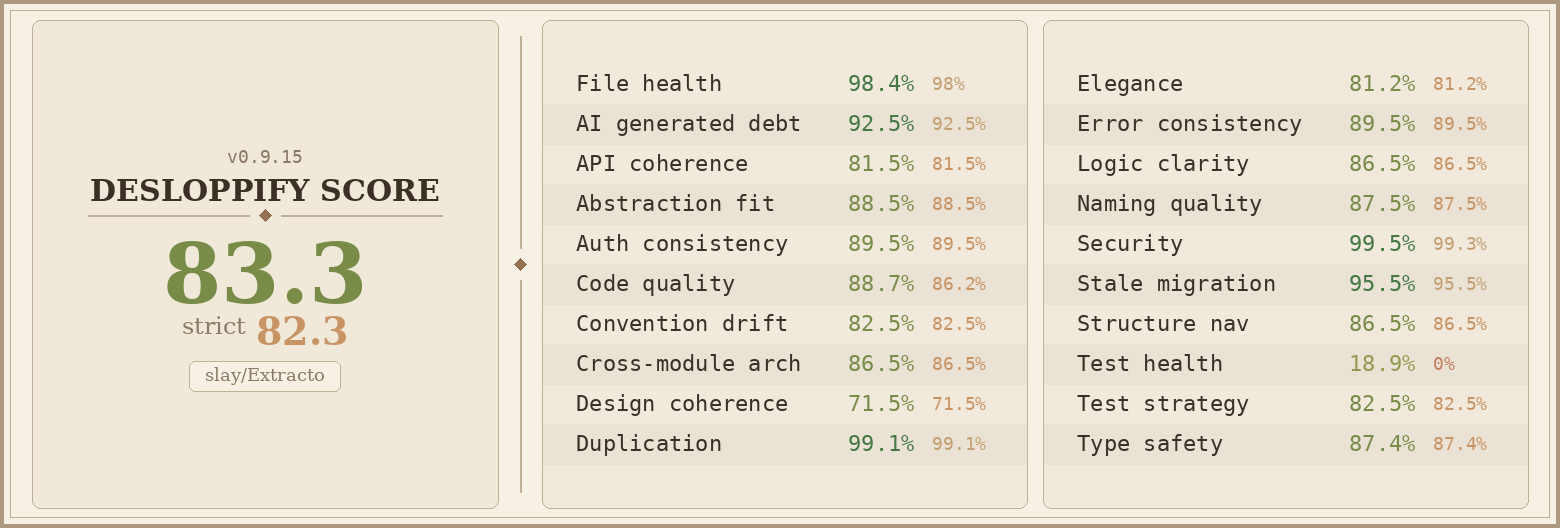
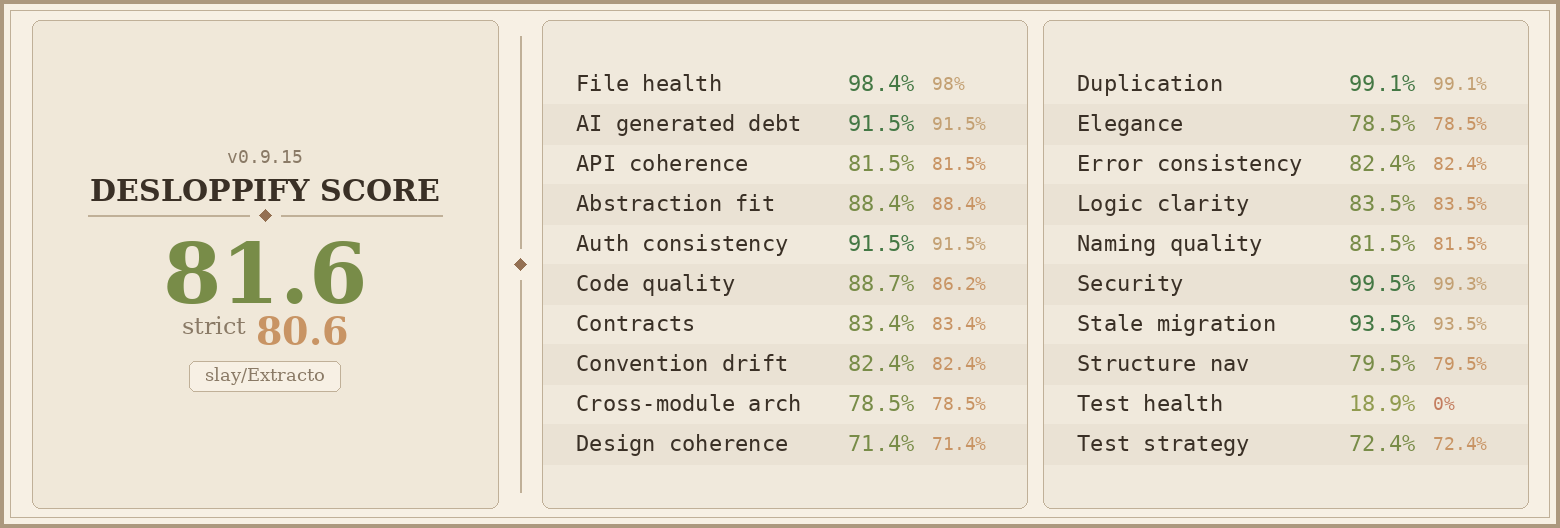
Cover v1/search, v1/webhooks, and collectDroppedFiles
Tests grew from 1117 to 1132 (+15):

- /api/v1/search GET: missing/short/oversize q -> 400, scoped findMany
  call shape, snippet inclusion, limit clamping at the new 100 ceiling.
- /api/v1/webhooks GET + POST: list scoping, missing url -> 400,
  url-safety policy rejection -> 400 with reason, per-user cap -> 409,
  successful create -> 201 with the signing secret returned exactly once.
- collectDroppedFiles: empty/no-webkitGetAsEntry path, single file,
  recursive directory walk, .file()-rejecting entries swallowed,
  non-file/non-directory entries skipped.

Refresh scorecard.png to reflect the post-fix dimension scores.

diff --git a/src/__tests__/app/api/v1/webhooks.test.ts b/src/__tests__/app/api/v1/webhooks.test.ts
@@ -1,0 +1,117 @@
+import { afterEach, beforeEach, describe, expect, it, vi } from "vitest";
+import type { NextRequest } from "next/server";
+
+vi.mock("@/lib/auth/request", () => ({
+  withAuth: <P,>(_scope: string, handler: (req: NextRequest, ctx: { auth: unknown; params: Promise<P> }) => Promise<Response>) =>
+    async (req: NextRequest, ctx: { params?: Promise<P> } = {}) => {
+      try {
+        return await handler(req, { auth: { method: "session", userId: "u1", scopes: ["*"] }, params: ctx.params ?? Promise.resolve({} as P) });
+      } catch (error) {
+        const status = error instanceof Error && "status" in error ? ((error as { status?: number }).status ?? 500) : 500;
+        return new Response(JSON.stringify({ error: error instanceof Error ? error.message : "internal" }), { status, headers: { "Content-Type": "application/json" } });
+      }
+    },
+  withMutationAuth: <P,>(_scope: string, handler: (req: NextRequest, ctx: { auth: unknown; params: Promise<P> }) => Promise<Response>) =>
+    async (req: NextRequest, ctx: { params?: Promise<P> } = {}) => {
+      try {
+        return await handler(req, { auth: { method: "session", userId: "u1", scopes: ["*"] }, params: ctx.params ?? Promise.resolve({} as P) });
+      } catch (error) {
+        const status = error instanceof Error && "status" in error ? ((error as { status?: number }).status ?? 500) : 500;
+        return new Response(JSON.stringify({ error: error instanceof Error ? error.message : "internal" }), { status, headers: { "Content-Type": "application/json" } });
+      }
+    },
+}));
+
+vi.mock("@/lib/db", () => ({
+  db: {
+    webhook: {
+      findMany: vi.fn(),
+      count: vi.fn(),
+      create: vi.fn(),
+    },
+  },
+}));
+
+vi.mock("@/lib/url-safety", () => ({
+  isAllowedExternalUrl: vi.fn().mockReturnValue({ ok: true }),
+  parseAllowlist: vi.fn().mockReturnValue([]),
+}));
+
+vi.mock("@/lib/background/webhooks", async () => {
+  const actual = await vi.importActual<typeof import("@/lib/background/webhooks")>("@/lib/background/webhooks");
+  return {
+    ...actual,
+    generateWebhookSecret: () => "whsec_fixed_test_secret",
+  };
+});
+
+import { db } from "@/lib/db";
+import { isAllowedExternalUrl } from "@/lib/url-safety";
+import { GET, POST } from "@/app/api/v1/webhooks/route";
+
+const mockedFindMany = db.webhook.findMany as ReturnType<typeof vi.fn>;
+const mockedCount = db.webhook.count as ReturnType<typeof vi.fn>;
+const mockedCreate = db.webhook.create as ReturnType<typeof vi.fn>;
+const mockedSafety = isAllowedExternalUrl as ReturnType<typeof vi.fn>;
+
+function makeReq(method: "GET" | "POST" = "GET", body?: unknown): NextRequest {
+  return new Request("http://localhost/api/v1/webhooks", {
+    method,
+    headers: { "Content-Type": "application/json", origin: "http://localhost" },
+    body: body !== undefined ? JSON.stringify(body) : undefined,
+  }) as unknown as NextRequest;
+}
+
+beforeEach(() => {
+  mockedFindMany.mockReset();
+  mockedCount.mockReset().mockResolvedValue(0);
+  mockedCreate.mockReset();
+  mockedSafety.mockReset().mockReturnValue({ ok: true });
+});
+afterEach(() => vi.clearAllMocks());
+
+describe("GET /api/v1/webhooks", () => {
+  it("lists the user's webhooks with parsed events", async () => {
+    mockedFindMany.mockResolvedValueOnce([
+      { id: "w1", url: "https://example.com/h", events: '["job.completed"]', active: true, createdAt: new Date() },
+    ]);
+    const res = await GET(makeReq());
+    expect(res.status).toBe(200);
+    const body = await res.json();
+    expect(body.webhooks[0].events).toEqual(["job.completed"]);
+    expect(mockedFindMany.mock.calls[0][0].where.userId).toBe("u1");
+  });
+});
+
+describe("POST /api/v1/webhooks", () => {
+  it("returns 400 when url is missing", async () => {
+    const res = await POST(makeReq("POST", { events: ["job.completed"] }));
+    expect(res.status).toBe(400);
+  });
+
+  it("returns 400 when the URL fails the safety policy", async () => {
+    mockedSafety.mockReturnValueOnce({ ok: false, reason: "Loopback addresses are blocked" });
+    const res = await POST(makeReq("POST", { url: "http://127.0.0.1/h" }));
+    expect(res.status).toBe(400);
+    const body = await res.json();
+    expect(body.error).toMatch(/Loopback/);
+  });
+
+  it("returns 409 when the per-user webhook cap is reached", async () => {
+    mockedCount.mockResolvedValueOnce(20);
+    const res = await POST(makeReq("POST", { url: "https://example.com/h" }));
+    expect(res.status).toBe(409);
+  });
+
+  it("creates the webhook, returns 201, and surfaces the signing secret exactly once", async () => {
+    mockedCreate.mockResolvedValueOnce({
+      id: "w1", url: "https://example.com/h", events: '["job.completed","job.failed"]',
+      active: true, createdAt: new Date(),
+    });
+    const res = await POST(makeReq("POST", { url: "https://example.com/h" }));
+    expect(res.status).toBe(201);
+    const body = await res.json();
+    expect(body.webhook.secret).toBe("whsec_fixed_test_secret");
+    expect(body.warning).toContain("Store this signing secret now");
+  });
+});

diff --git a/src/__tests__/app/page-utils-collect-dropped-files.test.ts b/src/__tests__/app/page-utils-collect-dropped-files.test.ts
@@ -1,0 +1,91 @@
+import { describe, expect, it, vi } from "vitest";
+
+import { collectDroppedFiles } from "@/app/page-components/page-utils";
+
+interface MockEntry {
+  isFile?: boolean;
+  isDirectory?: boolean;
+  file?: (resolve: (file: File | null) => void, reject: () => void) => void;
+  createReader?: () => { readEntries: (resolve: (entries: MockEntry[]) => void, reject?: () => void) => void };
+}
+
+function makeFileEntry(name: string, content = ""): MockEntry {
+  return {
+    isFile: true,
+    isDirectory: false,
+    file: (resolve) => {
+      const file = new File([content], name);
+      resolve(file);
+    },
+  };
+}
+
+function makeDirEntry(children: MockEntry[]): MockEntry {
+  let served = false;
+  return {
+    isFile: false,
+    isDirectory: true,
+    createReader: () => ({
+      readEntries: (resolve) => {
+        if (served) {
+          resolve([]);
+        } else {
+          served = true;
+          resolve(children);
+        }
+      },
+    }),
+  };
+}
+
+function makeDataTransferItems(entries: MockEntry[]): DataTransferItemList {
+  const items = entries.map((entry) => ({
+    webkitGetAsEntry: () => entry as unknown as FileSystemEntry,
+  }));
+  return Object.assign(items, { length: items.length }) as unknown as DataTransferItemList;
+}
+
+describe("collectDroppedFiles", () => {
+  it("returns [] when items don't expose webkitGetAsEntry", async () => {
+    const fakeItems = Object.assign([{}], { length: 1 }) as unknown as DataTransferItemList;
+    expect(await collectDroppedFiles(fakeItems)).toEqual([]);
+  });
+
+  it("collects a single dropped file", async () => {
+    const items = makeDataTransferItems([makeFileEntry("a.png", "x")]);
+    const collected = await collectDroppedFiles(items);
+    expect(collected).toHaveLength(1);
+    expect(collected[0].name).toBe("a.png");
+  });
+
+  it("walks a directory and collects every file inside", async () => {
+    const items = makeDataTransferItems([
+      makeDirEntry([
+        makeFileEntry("first.pdf"),
+        makeDirEntry([makeFileEntry("nested.png")]),
+        makeFileEntry("second.jpg"),
+      ]),
+    ]);
+    const collected = await collectDroppedFiles(items);
+    const names = collected.map((f) => f.name).sort();
+    expect(names).toEqual(["first.pdf", "nested.png", "second.jpg"]);
+  });
+
+  it("ignores entries whose .file callback rejects", async () => {
+    const broken: MockEntry = {
+      isFile: true,
+      file: (_resolve, reject) => reject(),
+    };
+    const items = makeDataTransferItems([broken, makeFileEntry("ok.png")]);
+    const collected = await collectDroppedFiles(items);
+    expect(collected.map((f) => f.name)).toEqual(["ok.png"]);
+  });
+
+  it("ignores entries that are neither file nor directory", async () => {
+    vi.stubGlobal("File", File);
+    const weird: MockEntry = { isFile: false, isDirectory: false };
+    const items = makeDataTransferItems([weird, makeFileEntry("real.png")]);
+    const collected = await collectDroppedFiles(items);
+    expect(collected.map((f) => f.name)).toEqual(["real.png"]);
+  });
+});

diff --git a/src/__tests__/app/api/v1/search.test.ts b/src/__tests__/app/api/v1/search.test.ts
@@ -1,0 +1,67 @@
+import { afterEach, beforeEach, describe, expect, it, vi } from "vitest";
+import type { NextRequest } from "next/server";
+
+vi.mock("@/lib/auth/request", () => ({
+  withAuth: <P,>(_scope: string, handler: (req: NextRequest, ctx: { auth: unknown; params: Promise<P> }) => Promise<Response>) =>
+    async (req: NextRequest) => {
+      try {
+        return await handler(req, { auth: { method: "session", userId: "u1", scopes: ["*"] }, params: Promise.resolve({} as P) });
+      } catch (error) {
+        const status = error instanceof Error && "status" in error ? ((error as { status?: number }).status ?? 500) : 500;
+        return new Response(JSON.stringify({ error: error instanceof Error ? error.message : "internal" }), { status, headers: { "Content-Type": "application/json" } });
+      }
+    },
+}));
+
+vi.mock("@/lib/db", () => ({
+  db: { ocrJob: { findMany: vi.fn() } },
+}));
+
+import { db } from "@/lib/db";
+import { GET } from "@/app/api/v1/search/route";
+
+const mockedFindMany = db.ocrJob.findMany as ReturnType<typeof vi.fn>;
+
+function makeReq(query: string): NextRequest {
+  return new Request(`http://localhost/api/v1/search?${query}`) as unknown as NextRequest;
+}
+
+beforeEach(() => mockedFindMany.mockReset());
+afterEach(() => vi.clearAllMocks());
+
+describe("GET /api/v1/search", () => {
+  it("returns 400 when q is missing", async () => {
+    const res = await GET(makeReq(""));
+    expect(res.status).toBe(400);
+  });
+
+  it("returns 400 when q is shorter than 2 chars", async () => {
+    const res = await GET(makeReq("q=a"));
+    expect(res.status).toBe(400);
+  });
+
+  it("returns 400 when q is over 200 chars", async () => {
+    const res = await GET(makeReq(`q=${"x".repeat(201)}`));
+    expect(res.status).toBe(400);
+  });
+
+  it("returns matching jobs scoped to the current user", async () => {
+    mockedFindMany.mockResolvedValueOnce([
+      { id: "j1", fileName: "doc.pdf", status: "COMPLETED", model: "qwen", createdAt: new Date(), extractedText: "this is a test snippet" },
+    ]);
+    const res = await GET(makeReq("q=test"));
+    expect(res.status).toBe(200);
+    const body = await res.json();
+    expect(body.q).toBe("test");
+    expect(body.count).toBe(1);
+    expect(body.results[0].id).toBe("j1");
+    expect(body.results[0].snippet).toContain("test");
+    expect(mockedFindMany.mock.calls[0][0].where.userId).toBe("u1");
+  });
+
+  it("clamps limit at 100", async () => {
+    mockedFindMany.mockResolvedValueOnce([]);
+    await GET(makeReq("q=foo&limit=999"));
+    expect(mockedFindMany.mock.calls[0][0].take).toBe(100);
+  });
+});
